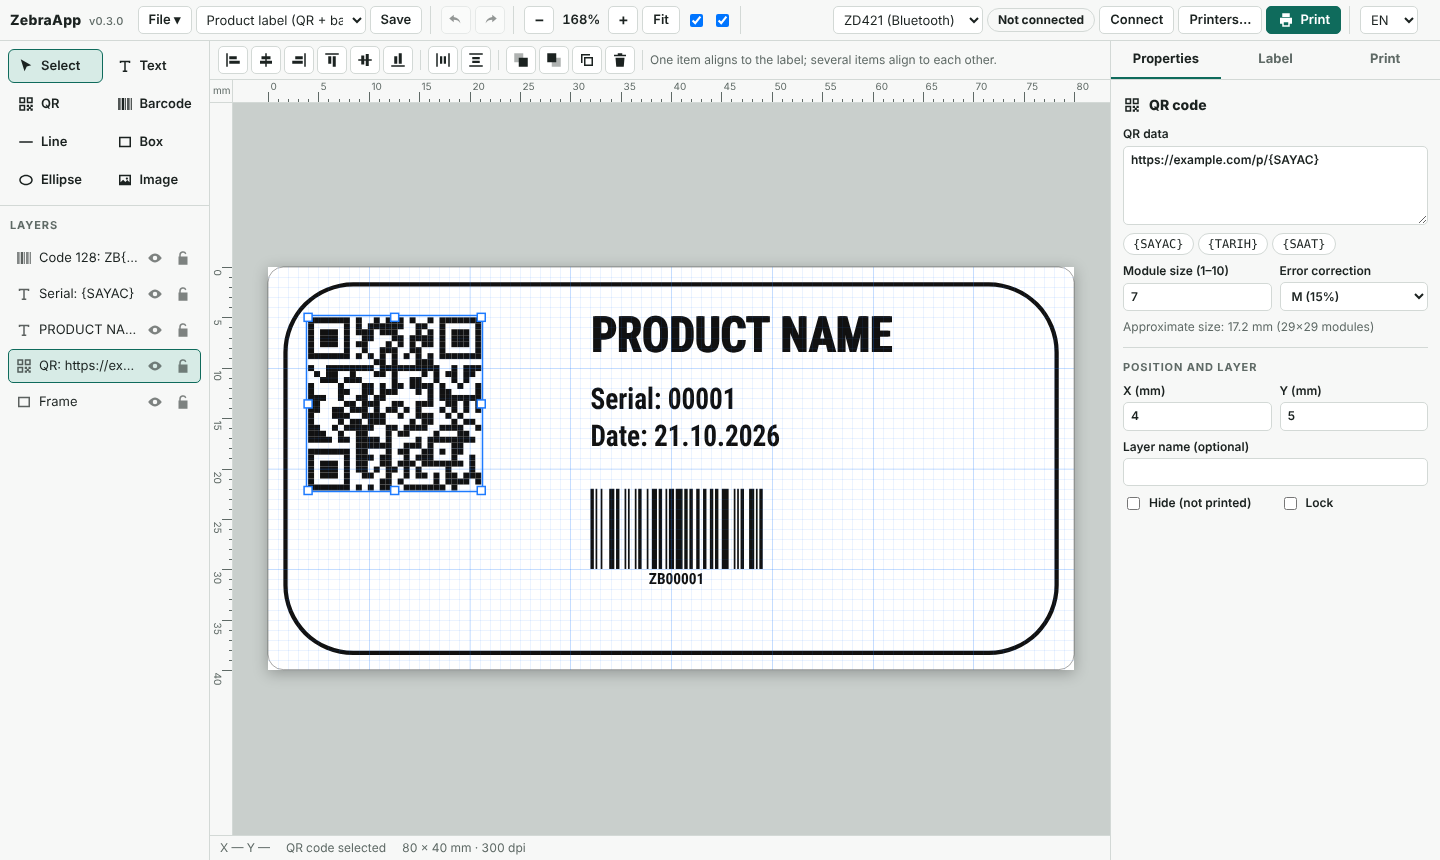
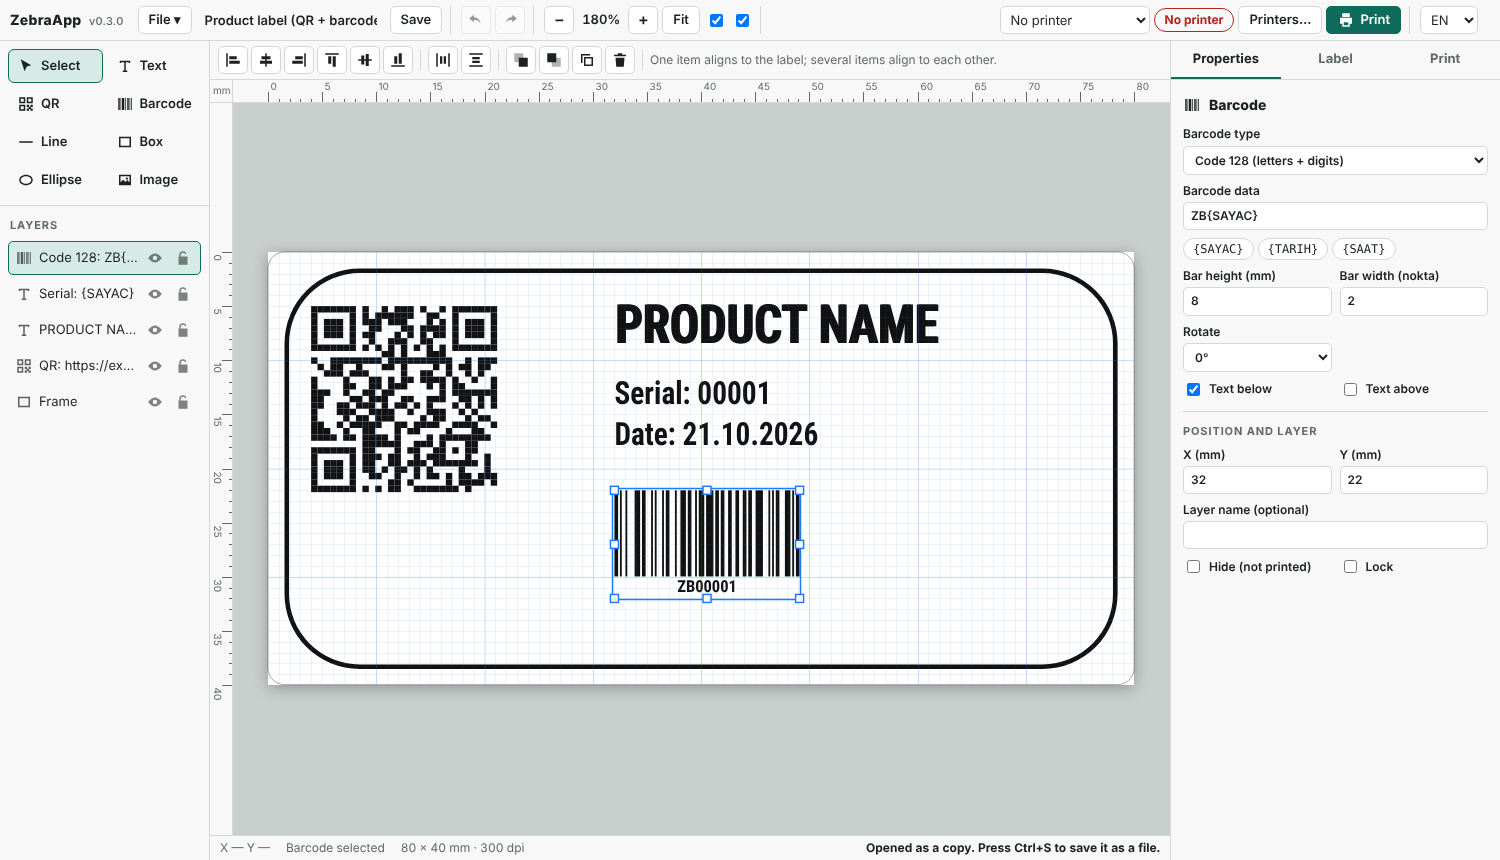
Add user guides (EN/TR), refreshed screenshots, issue templates
Claude-Session: https://claude.ai/code/session_01GYUNvWx5aVQtvWMo4x9fdN

diff --git a/docs/KULLANIM.md b/docs/KULLANIM.md
@@ -1,0 +1,139 @@
+# ZebraApp kullanım kılavuzu
+
+[English user guide](USER_GUIDE.md) · [README'ye dön](../README.tr.md)
+
+Bu kılavuz ZebraApp'i ilk açılıştan basılmış etikete kadar anlatır.
+
+![Editör](screenshot-tr.png)
+
+## 1. Uygulamayı başlat
+
+README'deki gibi kur, sonra `zebraapp` komutunu çalıştır (ya da sistemin için olan başlatıcıya çift tıkla). Editör kendi penceresinde açılır, pencereyi kapatınca birkaç saniye sonra kendiliğinden kapanır.
+
+Uygulama her seferinde **Adsız etiket** adlı boş bir etiketle açılır. Adı değiştirmek için pencerenin üstündeki kutuya yaz.
+
+## 2. Yazıcını ekle
+
+1. Sağ üstteki **Yazıcılar…** düğmesine bas (ya da yazıcı listesinden **+ Yazıcı ekle…** seç) ve yeni bir yazıcı ekle.
+2. **Modeli** seç (örneğin *ZD421*) ve **çözünürlüğü** seç (203 ya da 300 dpi; yazıcının kutusunda ve ayar etiketinde yazar).
+3. **Bağlantıyı** seç:
+   - **Bluetooth LE:** **Ara**'ya bas, listeden yazıcını seç. Yazıcı aynı anda tek cihaza bağlanır, bu yüzden önce telefonunun Bluetooth'unu kapat.
+   - **Ağ:** yazıcının IP adresini yaz (port 9100).
+   - **Sistem yazıcısı / USB:** **Listele**'ye bas, raw kuyruğunu seç.
+   - **USB aygıt dosyası**, **Seri port**, **Harici komut:** özel kurulumlar içindir, README'deki tabloya bak.
+4. **Test etiketi bas**'a bas. Küçük bir etiket çıkarsa hazırsın. **Durumu oku** kâğıt bitti, kapak açık, duraklatıldı gibi durumları gösterir.
+
+Birden çok yazıcı ekleyebilir, sağ üstteki listeden aralarında geçebilirsin.
+
+## 3. Ekranı tanı
+
+| Bölge | Ne yapar |
+|---|---|
+| Üst çubuk | Dosya menüsü, etiket adı, Kaydet, Geri al / Yinele, yakınlaştırma, ızgara ve yakalama, yazıcı seçimi, **Yazdır** |
+| Sol üst | Araçlar: Seç, Metin, QR, Barkod, Çizgi, Kutu, Elips, Görsel |
+| Sol alt | **Katmanlar:** göster / gizle, kilitle, yeniden adlandır, sürükleyerek sırala |
+| Orta | Cetvelli (mm) etiket. Yakınlaştırınca ızgara yazıcının noktalarını gösterir |
+| Sağ | **Özellikler** (seçili öğe), **Etiket** (boyut ve yazıcı ayarları), **Yazdır** sekmeleri |
+
+## 4. Etiket boyutunu ayarla
+
+**Etiket** sekmesini aç, hazır bir boyut seç (80 × 40, 100 × 150 …) ya da genişlik ve yüksekliği milimetre olarak yaz. Çözünürlüğü yazıcıya uydur.
+
+Bu etiketin yazıcı ayarları da aynı sekmede:
+
+- **Ortam türü:** kalıplı etiketler için *Boşluklu*, aralıksız rulolar için *Sürekli*, arkasında işaret olan ruloları için *Siyah işaretli*.
+- **Koyuluk** (0–30) ve **Hız:** boş bırakırsan yazıcının kendi ayarı kullanılır.
+- **Yatay / Dikey kaydırma:** tasarım kenara çok yakınsa bütün tasarımı taşır.
+- **Baskıyı 180° çevir:** ters çıkan etiketler için.
+
+Yeni rulo taktıktan sonra **Yazdır** sekmesinden bir kez **Kalibre et**'e bas; yazıcı etiket boyunu öğrenir.
+
+## 5. Etiketi tasarla
+
+Soldan bir araç seç, etikete tıkla (çizgi, kutu ve elipste sürükle). Ayrıntıları **Özellikler** sekmesinden ayarla.
+
+- **Metin:** boyut (mm), kalın, harf genişliği, satır aralığı, sola / ortaya / sağa yaslama, sabit kutu genişliği ve otomatik satır kaydırma, 90° adımlarla döndürme, **ters baskı** (siyah üstüne beyaz; arkasına siyah kutu çizer).
+- **QR kod:** içerik ve modül boyutu. Önizleme birebir aynıdır.
+- **Barkod:** Code 128, Code 39 ya da EAN-13; yükseklik, çubuk kalınlığı, altında okunabilir yazı açık ya da kapalı.
+- **Çizgi, Kutu, Elips:** kalınlık, dolu, yuvarlak köşe.
+- **Görsel:** logo ya da resim seç. Yazıcı için siyah beyaza çevrilir. **Eşik** kesim noktasını, **noktalama** gri tonları, **ters çevir** renkleri değiştirir.
+
+İşe yarar kısayollar:
+
+- Sürükleyerek taşı, sekiz tutamaçla boyutlandır. **Alt** basılıyken yapışmadan taşırsın.
+- **Shift** ile tıkla ya da boş alanda sürükle: birden çok öğe seçilir. Hizalama ve eşit dağıtma düğmeleri o zaman öğeler arasında çalışır; tek öğe etikete göre hizalanır.
+- Ok tuşları az, **Shift** ile ok tuşları 10 kat taşır.
+- **Ctrl+Z / Ctrl+Y** geri al ve yinele, **Ctrl+C / V / D** kopyala, yapıştır, çoğalt, **Del** siler.
+- **Ctrl** + tekerlek yakınlaştırır, **0** etiketi pencereye sığdırır, **Boşluk** + sürükle kaydırır.
+
+## 6. Kaydet ve aç
+
+Etiketler `.zebra` uzantılı sıradan dosyalardır (içi JSON). Nerede duracağına sen karar verirsin.
+
+| İşlem | Kısayol |
+|---|---|
+| **Kaydet:** ilk seferde yer ve ad sorar, sonra aynı dosyaya yazar | Ctrl+S |
+| **Farklı kaydet…:** her seferinde sorar | Ctrl+Shift+S |
+| **Aç…:** dosya seç ya da son kullanılanlardan seç | Ctrl+O |
+| **Yeni etiket** (Dosya menüsü) | |
+
+**Aç** penceresi örnek etiketleri ve uygulamanın eski sürümlerinde kaydedilenleri de listeler. Birini açınca kopyası açılır; Ctrl+S onu dosyaya çevirir.
+
+Kaydedilmemiş değişiklik varken pencereyi kapatırsan uygulama önce sorar.
+
+## 7. Yazdır
+
+**Yazdır** sekmesine bak, sonra sağ üstteki **Yazdır**'a bas.
+
+- **Her etiketten adet:** her etiketten kaç tane aynı kopya basılacağı.
+- **Farklı etiket sayısı:** kaç farklı etiket basılacağı; sayaç ve veri listesiyle birlikte kullanılır.
+
+### Sayaç ve tarih
+
+Bunları herhangi bir metin, QR ya da barkod alanına yaz:
+
+- `{SAYAC}` sayaçtır. *Sayaç* bölümünden başlangıç, artış ve basamak sayısını ayarlarsın. 3 basamak ve başlangıç 1 ile 001, 002, 003… çıkar.
+- `{TARIH}` bugünün tarihi (gg.aa.yyyy), `{SAAT}` saattir.
+
+### Listeden bas (CSV)
+
+1. **Yazdır** sekmesinde *Veri listesi* kutusuna bir tablo yapıştır ya da **Dosyadan yükle**'ye bas. İlk satır sütun adlarıdır; `;`, `,` ya da sekme ile ayrılır.
+2. Herhangi bir alana `{sütun_adı}` yaz. Sütun adları kutunun altında etiket olarak görünür.
+3. Her satır için bir etiket basılır. Her satırı tuvalde görmek için *Önizlemede gösterilen kayıt* alanını kullan.
+
+Örnek:
+
+```
+ad;il;telefon
+Örnek Makina;İstanbul;0212 000 00 00
+```
+
+Bir metin alanına `{ad} - {il}` yazarsan "Örnek Makina - İstanbul" basılır.
+
+### Basmadan önce kontrol et
+
+- **Gerçek önizleme (Labelary)** ZPL'i labelary.com'a gönderir ve bir Zebra'nın nasıl basacağını gösterir (internet gerekir).
+- **ZPL kodunu göster** yazıcıya gidecek kodun kendisini açar. Düzenleyip elle gönderebilir ya da `.zpl` dosyası olarak kaydedebilirsin.
+
+## 8. Sorun giderme
+
+**Etiketin yalnızca bir kısmı basılıyor ya da kesiliyor.** Etiket boyutunun ve çözünürlüğün (Etiket sekmesi) gerçek etiketlerle ve yazıcıyla aynı olduğunu kontrol et. Doğru ortam türünü seç, sonra **Kalibre et**'e bas.
+
+**Çok açık ya da çok koyu basıyor.** Etiket sekmesinde *Koyuluk* ayarla (birkaç adım artırarak dene).
+
+**Bluetooth'a bağlanmıyor.** Telefonunun Bluetooth'unu kapat, yazıcıyı kullanan başka uygulamaları kapat. Yeniden **Ara**'ya bas ve yazıcıyı seç. Linux'ta `bleak` kurulu olmalı (`pip install ".[ble]"`) ve Bluetooth servisi çalışmalı.
+
+**Baskılar arasında boş etiket çıkıyor.** Ortam türü büyük olasılıkla yanlış ya da yazıcının kalibre edilmesi gerekiyor.
+
+**Yazdır'a basınca hiçbir şey olmuyor.** Alttaki çubuktaki mesaja bak. Yazıcı eklenmedi diyorsa **Yazıcılar…** bölümünden ekle.
+
+**Pencere minicik ya da yanlış yerde.** Chrome uygulama pencerelerinin boyutunu adrese göre hatırlar. Bir kez büyüt ya da uygulamayı başka bir portta başlat: `zebraapp --port 8766`.
+
+**Metin yazıcıda farklı görünüyor.** Önizleme yazıcıya giden yazı tipini kullanır; fark çoğunlukla yanlış çözünürlük ayarından gelir.
+
+## 9. Her şey nerede duruyor
+
+- Etiketlerin: kaydettiğin yer.
+- Yazıcı listesi ve dil: README'de yazan klasör (Linux'ta `~/.config/zebraapp/`).
+
+Bilgisayarından dışarı yalnızca **Gerçek önizleme (Labelary)**'ye bastığında veri gider.

diff --git a/docs/USER_GUIDE.md b/docs/USER_GUIDE.md
@@ -1,0 +1,139 @@
+# ZebraApp user guide
+
+[Türkçe kullanım kılavuzu](KULLANIM.md) · [Back to README](../README.md)
+
+This guide walks through ZebraApp from first launch to a printed label.
+
+![The editor](screenshot-en.png)
+
+## 1. Start the app
+
+Install as described in the README, then run `zebraapp` (or double-click the launcher for your system). The editor opens in its own window and closes itself a few seconds after you close that window.
+
+The app always starts with an empty label called **Untitled label**. Type a name in the box at the top of the window to rename it.
+
+## 2. Add your printer
+
+1. Click **Printers…** at the top right (or choose **+ Add printer…** in the printer drop-down) and add a new printer.
+2. Pick the **model** (for example *ZD421*) and the **resolution** (203 or 300 dpi; it is printed on the printer's box and on the configuration label).
+3. Pick the **connection**:
+   - **Bluetooth LE**: press **Scan**, choose your printer from the list. Only one device can be connected at a time, so turn off Bluetooth on your phone first.
+   - **Network**: enter the printer's IP address (port 9100).
+   - **System printer / USB**: press **List** and choose the raw queue.
+   - **USB device file**, **Serial port**, **External command**: for special setups, see the README table.
+4. Press **Print test label**. If a small test label comes out, you are set. **Read status** shows paper out, open head, paused and so on.
+
+You can add several printers and switch between them in the drop-down at the top right.
+
+## 3. Find your way around
+
+| Area | What it does |
+|---|---|
+| Top bar | File menu, label name, Save, Undo / Redo, zoom, grid and snapping, printer selector, **Print** |
+| Left, top | Tools: Select, Text, QR, Barcode, Line, Box, Ellipse, Image |
+| Left, below | **Layers**: show / hide, lock, rename, drag to reorder |
+| Middle | The label on a ruler (mm). The grid shows the printer's dots when you zoom in |
+| Right | Tabs **Properties** (selected item), **Label** (size and printer settings), **Print** |
+
+## 4. Set the label size
+
+Open the **Label** tab and pick a preset (80 × 40, 100 × 150 …) or type width and height in millimetres. Set the resolution to match the printer.
+
+Printer settings for this label live on the same tab:
+
+- **Media type**: *Gap* for die-cut labels, *Continuous* for rolls without gaps, *Black mark* for rolls with a mark on the back.
+- **Darkness** (0 to 30) and **Speed**: leave empty to use the printer's own setting.
+- **Shift X / Y**: moves the whole design if it sits too close to an edge.
+- **Rotate 180°**: for labels that come out upside down.
+
+After you load a new roll, press **Calibrate** once on the **Print** tab so the printer learns the label length.
+
+## 5. Design the label
+
+Choose a tool on the left and click on the label (drag for lines, boxes and ellipses). Then use the **Properties** tab to fine-tune.
+
+- **Text**: size in mm, bold, width, line spacing, left / centre / right, fixed box width with automatic wrapping, rotation in 90° steps, and **reverse** (white on black; it draws a black box behind it).
+- **QR code**: content and module size. The preview is exact.
+- **Barcode**: Code 128, Code 39 or EAN-13, height, bar width, human-readable text on or off.
+- **Line, Box, Ellipse**: thickness, filled, rounded corners.
+- **Image**: pick a logo or picture. It is converted to black and white for the printer. Use **threshold** to set the cut-off, **dither** to keep shades, **invert** to swap colours.
+
+Handy actions:
+
+- Drag to move, drag the eight handles to resize. Hold **Alt** to move without snapping.
+- **Shift**-click or drag on empty space to select several items. The align and distribute buttons in the second toolbar then work between the items; with one item they align to the label.
+- Arrow keys nudge; with **Shift** they move 10 times as far.
+- **Ctrl+Z / Ctrl+Y** undo and redo, **Ctrl+C / V / D** copy, paste, duplicate, **Del** deletes.
+- **Ctrl** + mouse wheel zooms, **0** fits the label in the window, **Space** + drag pans.
+
+## 6. Save and open
+
+Labels are ordinary files with the extension `.zebra` (JSON inside). You decide where they live.
+
+| Action | Shortcut |
+|---|---|
+| **Save**: first time asks for a place and a name, later saves to the same file | Ctrl+S |
+| **Save as…**: always asks | Ctrl+Shift+S |
+| **Open…**: pick a file or choose from the recent list | Ctrl+O |
+| **New label** (File menu) | |
+
+The **Open** window also lists the sample labels and anything saved by older versions of the app. Opening one of those gives you a copy; Ctrl+S turns it into a file.
+
+If you close the window with unsaved changes, the app asks first.
+
+## 7. Print
+
+Check the **Print** tab, then press **Print** at the top right.
+
+- **Copies per label**: identical copies of each label.
+- **Number of different labels**: how many different labels to print, used together with counters and data lists.
+
+### Counters and dates
+
+Type these in any text, QR or barcode field:
+
+- `{SAYAC}` is a counter. Set start, step and number of digits under *Counter*. With 3 digits and start 1 you get 001, 002, 003…
+- `{TARIH}` is today's date (dd.mm.yyyy) and `{SAAT}` the time.
+
+### Print from a list (CSV)
+
+1. In the **Print** tab, paste a table into *Data list*, or press **Load from file**. The first line holds the column names, separated by `;`, `,` or tabs.
+2. Write `{column_name}` in any field. The column names appear as chips below the box.
+3. One label is printed per row. Use *Record shown in preview* to check each row on the canvas.
+
+Example:
+
+```
+name;city;phone
+Example Machines;Istanbul;0212 000 00 00
+```
+
+Then a text field with `{name} - {city}` prints "Example Machines - Istanbul".
+
+### Check before printing
+
+- **Printer preview (Labelary)** sends the ZPL to labelary.com and shows how a Zebra renders it (needs internet).
+- **Show ZPL code** opens the exact code that will be sent. You can edit it and send it by hand, or save it as a `.zpl` file.
+
+## 8. Troubleshooting
+
+**Only part of the label prints, or a label is cut off.** Check that the label size and resolution (Label tab) match the real labels and the printer. Choose the right media type, then press **Calibrate**.
+
+**Prints too light or too dark.** Set *Darkness* on the Label tab (raise it a few steps at a time).
+
+**The printer will not connect over Bluetooth.** Turn off Bluetooth on your phone and close other apps using the printer. Press Scan again and choose the printer. On Linux, make sure `bleak` is installed (`pip install ".[ble]"`) and the Bluetooth service is running.
+
+**A blank label comes out between prints.** The media type is probably wrong, or the printer needs calibrating.
+
+**Nothing happens when I press Print.** Look at the message in the bottom bar. If it says no printer is added, add one under **Printers…**.
+
+**The window is tiny or in the wrong place.** Chrome remembers the size of app windows per address. Maximise it once, or start the app on another port: `zebraapp --port 8766`.
+
+**Text looks different on the printer.** The preview uses the same font the printer gets, so differences usually come from the wrong resolution setting.
+
+## 9. Where things are stored
+
+- Your labels: wherever you saved them.
+- Printer list and language: the folder named in the README (`~/.config/zebraapp/` on Linux).
+
+Nothing leaves your computer except when you press **Printer preview (Labelary)**.

diff --git a/README.tr.md b/README.tr.md
@@ -44,6 +44,11 @@ ZD (ZD421, ZD621, ZD411, ZD420, ZD410, ZD220/230, ZD888), GK/GX, ZT (ZT230, ZT41
 
 ZebraApp ile hazırlanan etiketler bir ZD421'de (300 dpi) Bluetooth LE üzerinden basıldı. Diğer modeller ve bağlantı türleri Zebra'nın belgelerine göre yazıldı ama henüz gerçek donanımda denenmedi; deneyen olursa geri bildirimini bekliyorum.
 
+## Belgeler
+
+- [Kullanım kılavuzu](docs/KULLANIM.md): yazıcı eklemekten toplu baskıya
+- [English user guide](docs/USER_GUIDE.md)
+
 ## Kurulum
 
 Python 3.8 ya da üstü gerekir.

diff --git a/README.md b/README.md
@@ -44,6 +44,11 @@ Printer profiles are included for the ZD (ZD421, ZD621, ZD411, ZD420, ZD410, ZD2
 
 Labels made with ZebraApp have been printed on a ZD421 (300 dpi) over Bluetooth LE. The other models and connection types follow Zebra's documentation but have not been tested on real hardware yet, so reports are welcome.
 
+## Documentation
+
+- [User guide](docs/USER_GUIDE.md): from adding a printer to batch printing
+- [Türkçe kullanım kılavuzu](docs/KULLANIM.md)
+
 ## Install
 
 Python 3.8 or newer is required.

diff --git a/.github/ISSUE_TEMPLATE/printer-report.md b/.github/ISSUE_TEMPLATE/printer-report.md
@@ -1,0 +1,17 @@
+---
+name: Printer test report
+about: Tell us how ZebraApp works (or does not) with your printer
+labels: hardware
+---
+
+**Printer model and resolution** (for example ZD421, 300 dpi):
+
+**Connection** (Bluetooth LE, network, USB / system printer, serial…):
+
+**Operating system and Python version:**
+
+**What worked** (test label, status read, printing, calibration):
+
+**What did not** (copy any message from the bottom bar of the app):
+
+**ZPL** (optional: *Show ZPL code* on the Print tab):

diff --git a/.github/ISSUE_TEMPLATE/bug.md b/.github/ISSUE_TEMPLATE/bug.md
@@ -1,0 +1,13 @@
+---
+name: Bug report
+about: Something in the editor or the server does not work
+labels: bug
+---
+
+**What happened:**
+
+**What you expected:**
+
+**Steps to reproduce:**
+
+**Operating system, browser and ZebraApp version** (shown next to the app name):
